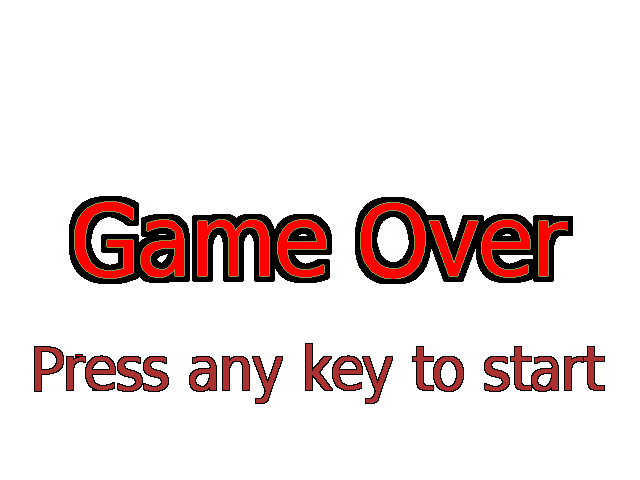
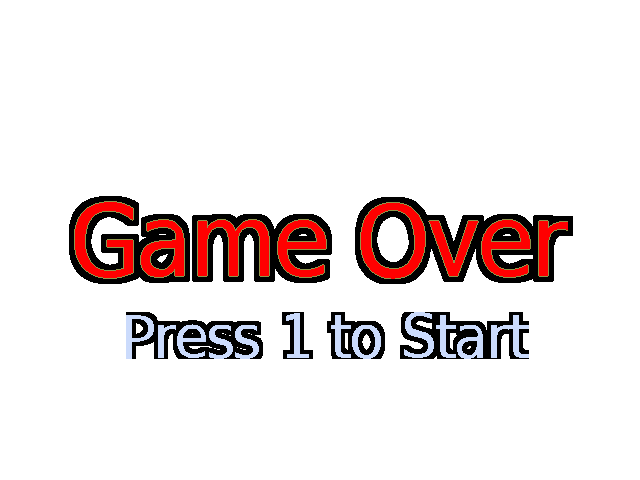
Add files via upload

Changed region(s): [[0.0312, 0.625, 0.9375, 0.8438]]

diff --git a/Centipede.py b/Centipede.py
@@ -2,6 +2,7 @@ from tkinter import *
 import random
 import os
 import sys
+import time
 
 # to import LEDlib and GridLib in Documents
 # NOT NEEDED: two_levels_up = os.path.abspath(os.path.join('..', '..'))
@@ -13,11 +14,17 @@ score = 0
 centipedelength = 30
 
 GameOver = True
+GameOverSprite = 0 # created in EndGame()
 
-# make sure CAPSLOCK is NOT down :)
+# 
 
-# End game if centipede hits ship
-# record highscore in EndGame()
+# PRESS the number 1 to start  (change instructions)
+#   make sure CAPSLOCK is NOT down :)
+#   click in this window
+# draw ship destroyed  sprite
+# draw centipede part
+# add levels
+# add text for SCORE, LEVEL , Jeff Minter style
 # Draw instructions as bitmap in background (very easy, just use putblock)
 # make centipede longer to increase difficulty. Do not make faster
 # only need one centipede list: Just add more sections to list to make more
@@ -39,9 +46,7 @@ mainwin.geometry("1216x800")
 canvas1 = Canvas(mainwin,width = 1216, height = 800, bg = "black")
 canvas1.place(x=0,y=0)
 
-# MUST draw these before rocks, because a rock with block creation of new block.
-# Maybe creatre a new sprite class for this
-GameOverSprite = putblock(canvas1,17,10,"GameOver.png",dx=0,dy=0)
+
 
 def putrock(canvas,x,y):
     putblockAni(canvas,x=x,y=y,fimages=["rock9.png","rock8.png","rock7.png","rock6.png","rock5.png","rock4.png","rock3.png","rock2.png","rock.png"],gridtype=9)
@@ -74,6 +79,10 @@ def EndGame():
 def movebody():
     for cbody in centipede:
       setgridobj(cbody,0)
+      myblock = getblocknext(cbody)
+      if myblock != -1:
+          if myblock.xblock == ship.xblock and myblock.yblock == ship.yblock:
+             EndGame()
       if blockmove(cbody) == -1:  # -1 means cannot move (blocked path), o/w 0 it is moved
          # go down and reverse direction
          olddx =  cbody.dx
@@ -128,8 +137,11 @@ def bullettimer():
     if not GameOver: mainwin.after(30,bullettimer)  
 
 def shiptimer():
-    if getgridnext(ship) == 0:
-       ship.move()
+    if getgridnext(ship) == 20: # centipede
+         ship.move()
+         EndGame() 
+    elif getgridnext(ship) == 0:
+         ship.move()         
     ship.dx = 0
     ship.dy = 0
     if not GameOver: mainwin.after(150,shiptimer)  
@@ -159,10 +171,11 @@ def createship():
 createship()
 
 def mykey(event):
-    global GameOver
-    if GameOver:
-       StartGame() 
+    global GameOver        
     key = event.keysym
+    if key == "1" and GameOver:
+       StartGame()
+    if GameOver: return
     if key == "w":
         ship.dy = -1
         ship.dx = 0
@@ -218,5 +231,7 @@ def StartGame():
     centipedetimer()
     shiptimer()
     bullettimer()
+
+EndGame()
 
 mainwin.mainloop()
